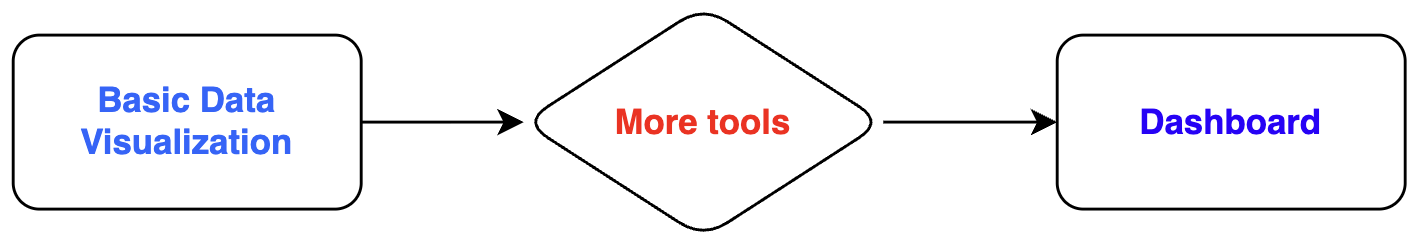
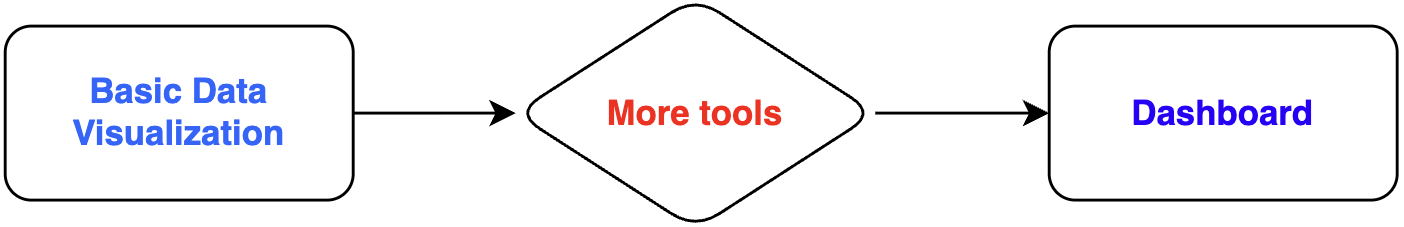
Update slide section 'Transformation'.

diff --git a/docs/02-davanced-data-visualization.html b/docs/02-davanced-data-visualization.html
@@ -168,22 +168,44 @@
 <h2><span class="header-section-number">1.1</span> Story telling &amp; dashboard</h2>
 <div style="font-size: 80%">
 <ul>
-<li>In Data Visualization of <a href="https://hassothea.github.io/Data_Analysis_AUPP/" target="_blank"><strong>Data Analysis I</strong></a>, we learned:
+<li class="fragment">In Data Visualization of <a href="https://hassothea.github.io/Data_Analysis_AUPP/" target="_blank"><strong>Data Analysis I</strong></a>, we learned:
 <ul>
-<li>How to inspect single variable individually</li>
-<li>Uncover relationship between multiple variables</li>
-<li>Detect trend/evolution of variables…</li>
+<li class="fragment">How to inspect single variable individually</li>
+<li class="fragment">Uncover relationship between multiple variables</li>
+<li class="fragment">Detect trend/evolution of variables…</li>
 </ul></li>
-<li>All these are to gain knowledge from the data only.</li>
-<li>Now, learn additional tools to build a presentable <span class="light-blue"><strong>Dashboard</strong></span>.</li>
+<li class="fragment">All these are to extract knowledge from the data only.</li>
+<li class="fragment">We now learn <span class="light-red">additional tools</span> to build a presentable <span class="light-blue"><strong>Dashboard</strong></span>.</li>
 </ul>
-<div class="vspace" style="--space: -10px">
 <div class="quarto-figure quarto-figure-center">
 <figure>
-<p><img data-src="./img/visual_flow.png" class="quarto-figure quarto-figure-center"></p>
+<p><img data-src="./img/visual_flow.png" class="vspace fragment quarto-figure quarto-figure-center" style="--space: -15px"></p>
 </figure>
 </div>
+<div class="vspace" style="--space: -20px">
+<ul>
+<li class="fragment">We will use <a href="https://www.kaggle.com/datasets/satrapankti/amazon-beauty-product-recommendation" target="_blank">Amazon Product Rating</a> as a case study.</li>
+</ul>
 </div>
+</div>
+</section>
+<section id="plan-your-story" class="slide level2" data-number="1.2">
+<h2><span class="header-section-number">1.2</span> Plan your story</h2>
+<div style="font-size: 80%">
+<pre><code>
+             ┌─────────────┐
+             │   Dataset   │
+             └──────┬──────┘
+                    │
+        ┌───────────┼───────────┐
+        ▼           ▼           ▼
+    Customer     Product       Time
+      view         view        view
+        │           │           │
+        └───────────┼───────────┘
+                    ▼
+               Dashboard
+</code></pre>
 </div>
 </section></section>
 <section id="overall-view" class="title-slide slide level1 center" data-background-color="#345a8b" data-number="2">
